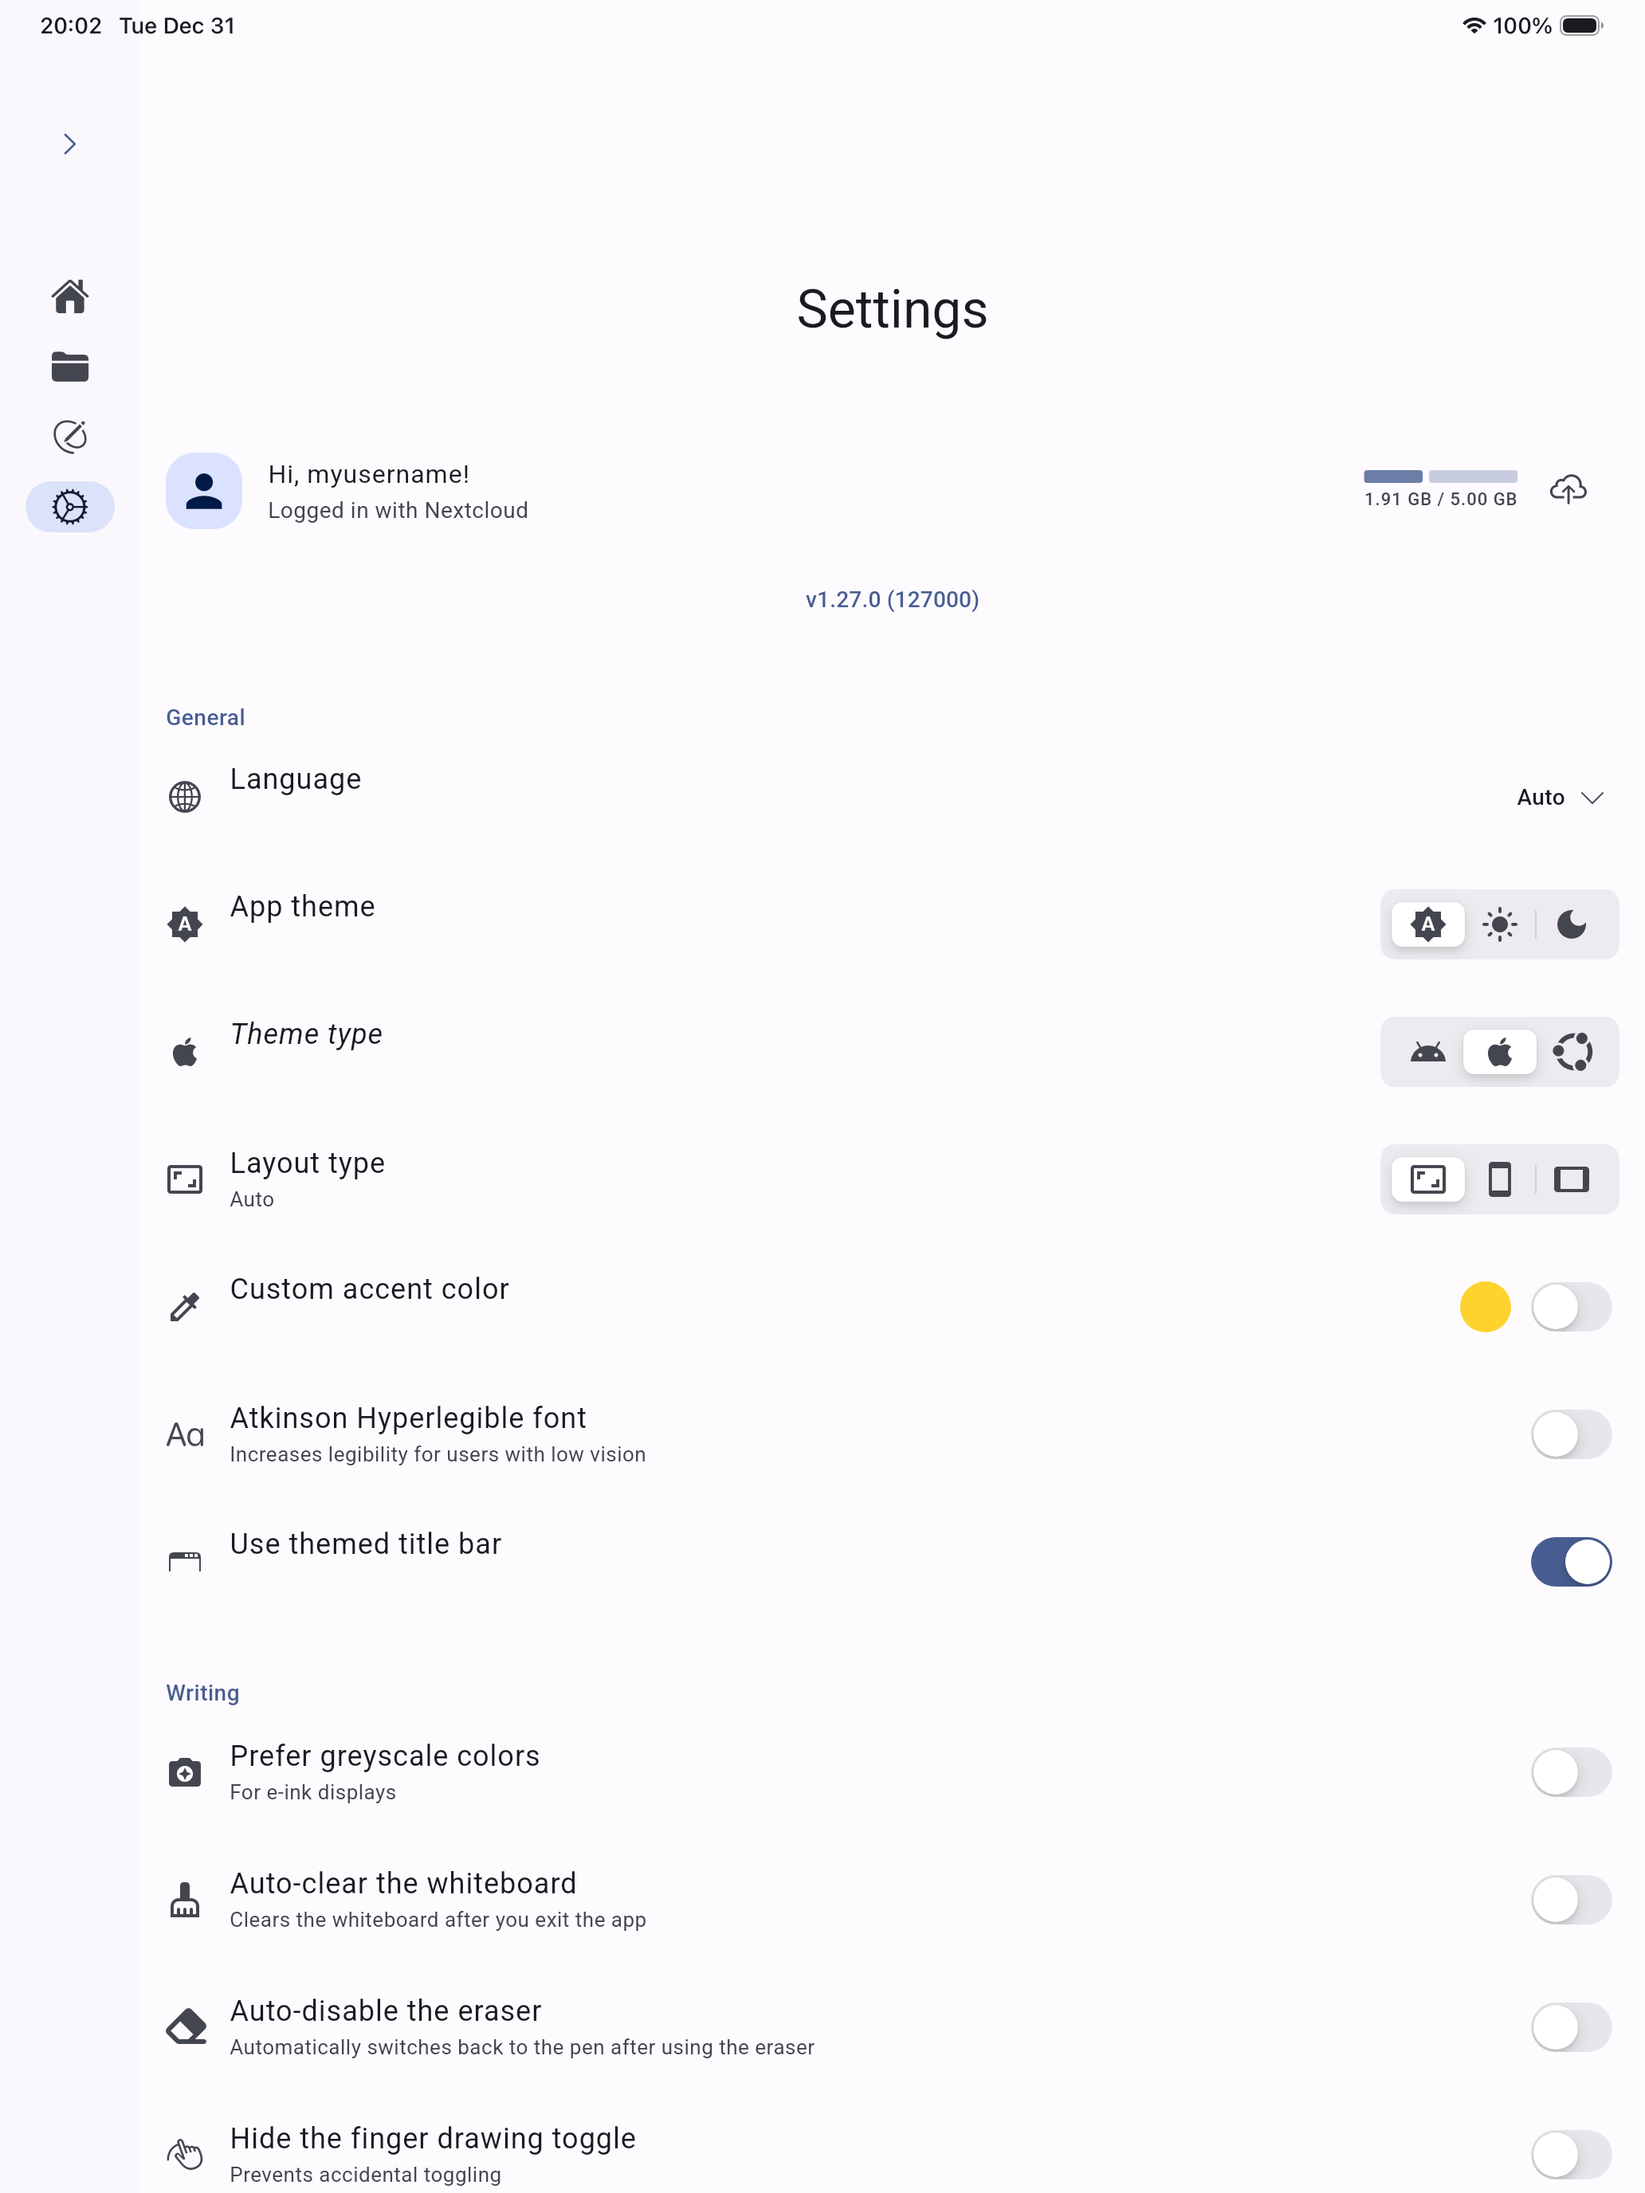
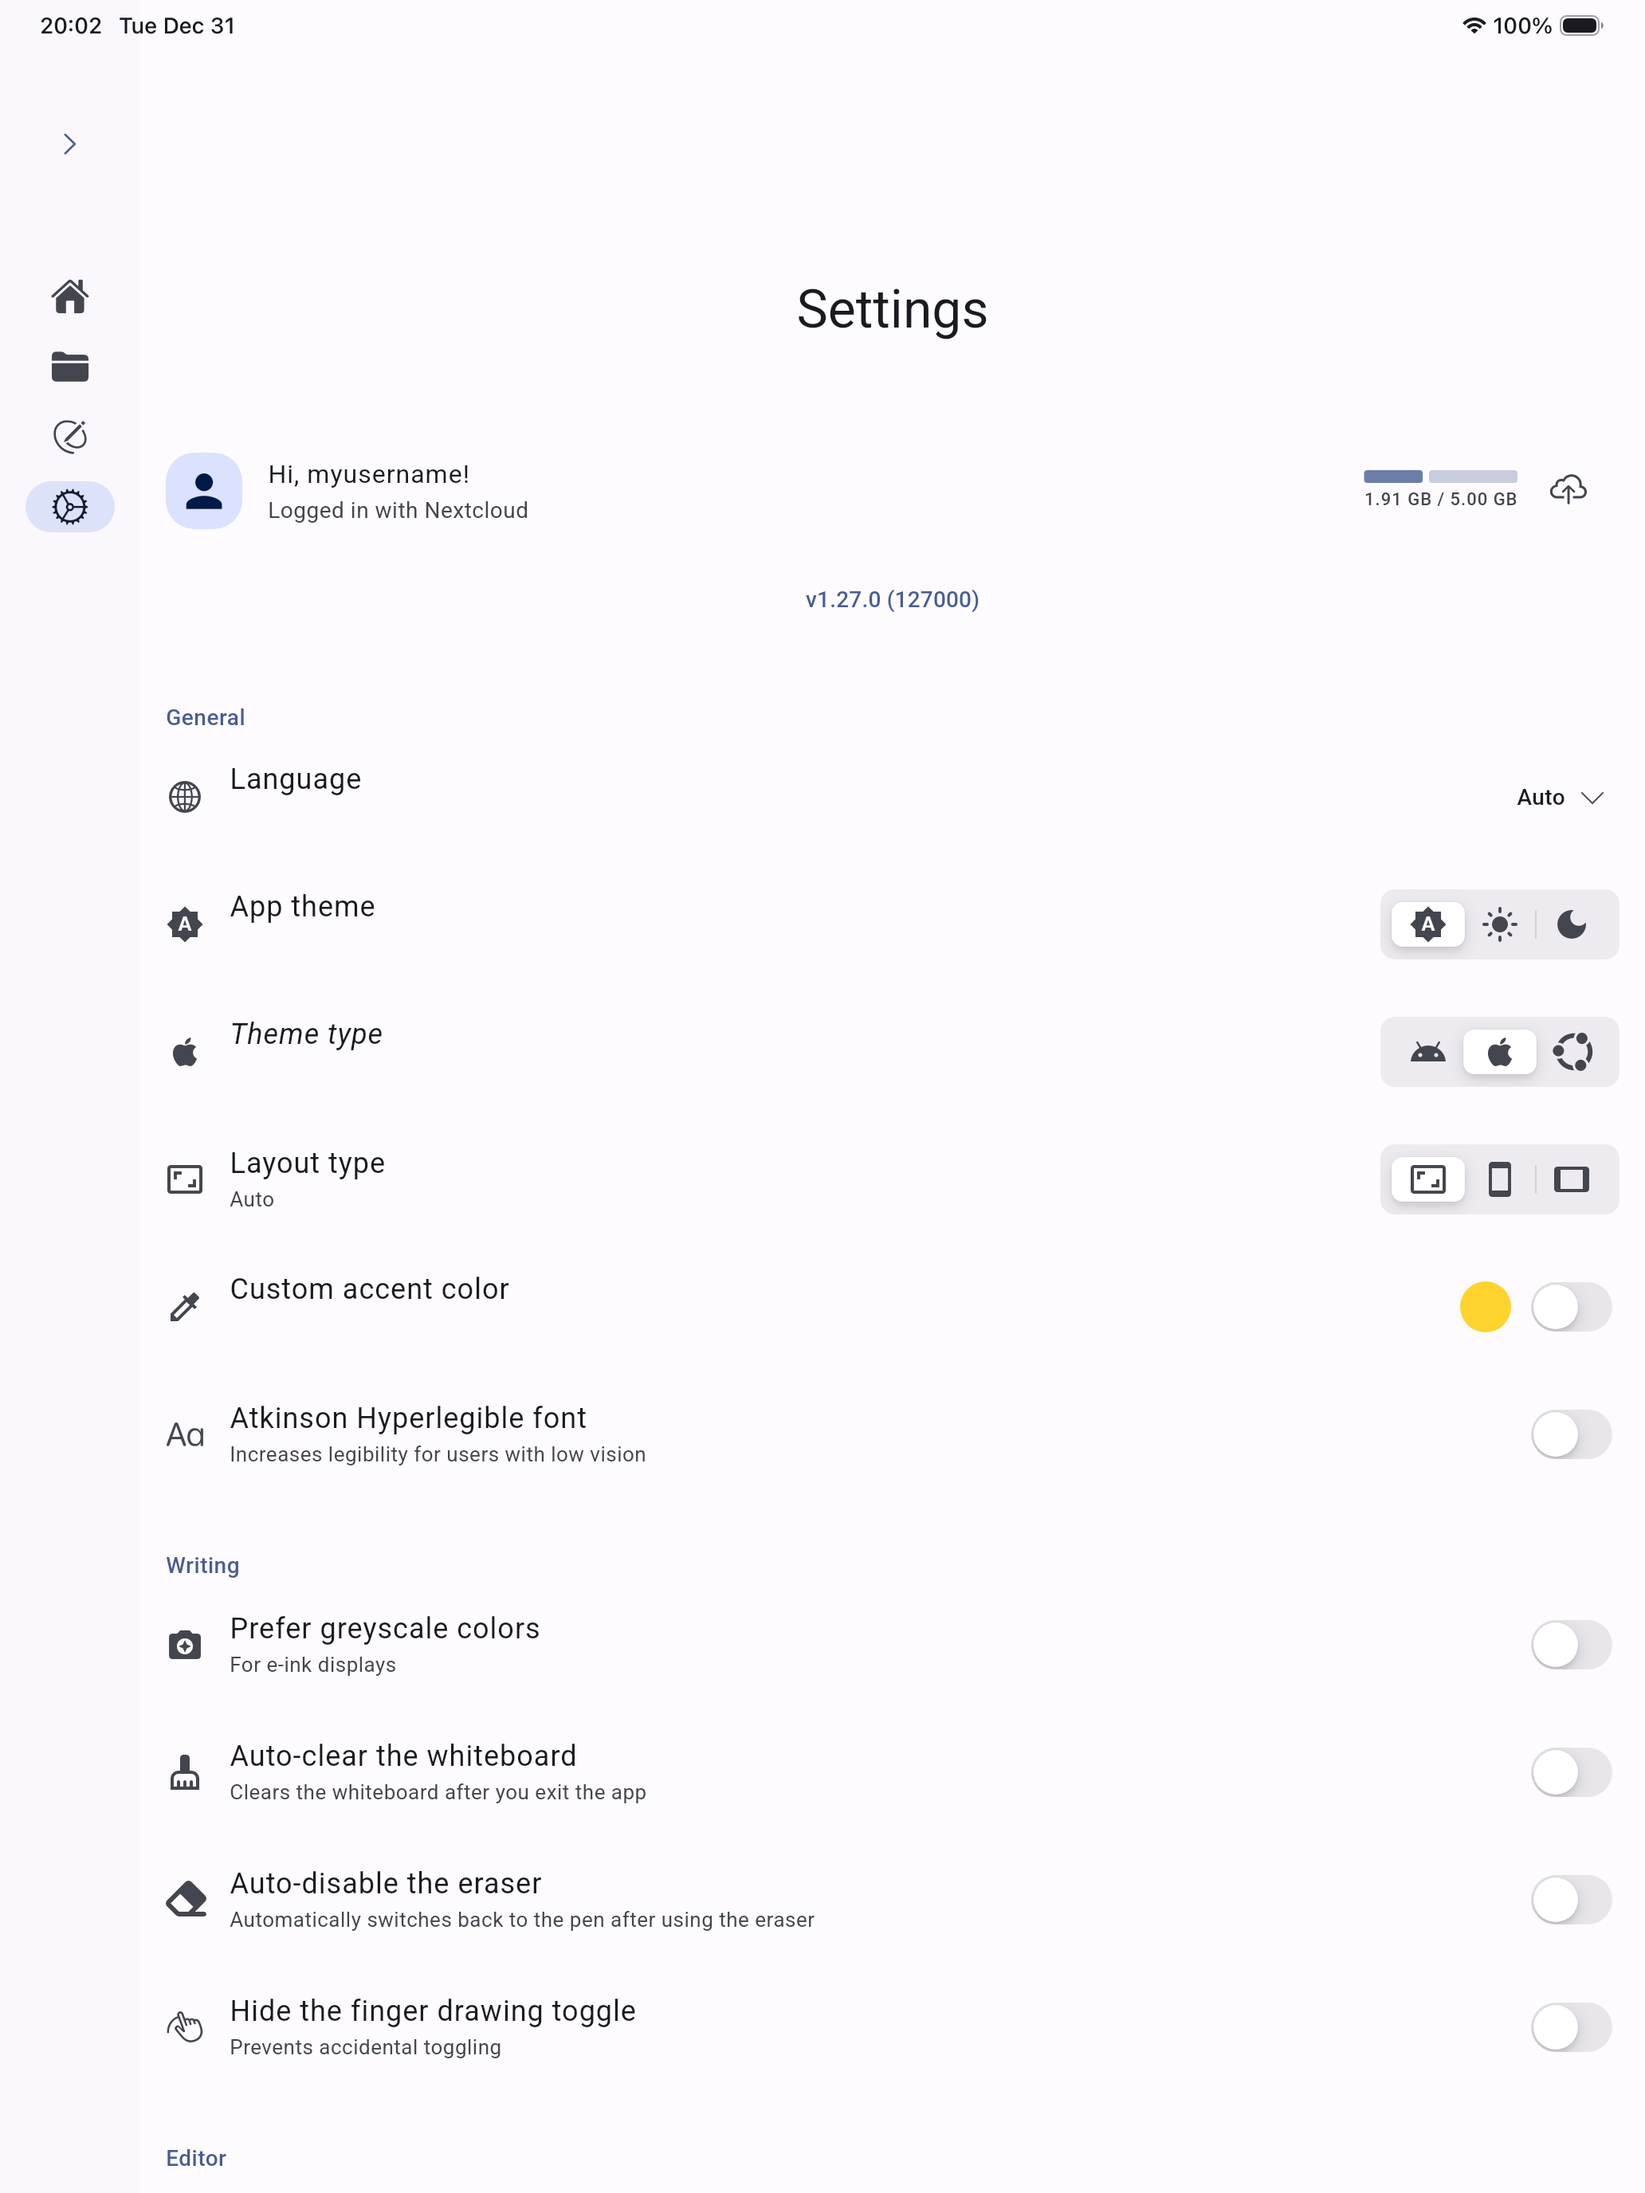
tweak: remove yaru title bar
It was causing issues with KDE 6 (Wayland), see #1581.
Additionally, you couldn't drag the corners to resize the window.

diff --git a/lib/components/theming/dynamic_material_app.dart b/lib/components/theming/dynamic_material_app.dart
@@ -44,14 +44,6 @@ class DynamicMaterialApp extends StatefulWidget {
     }
   }
 
-  /// Toggles the native titlebar so it doesn't conflict with Yaru's titlebar.
-  static void showOrHideNativeTitleBar() {
-    if (!Stows.canUseYaruTitleBar) return;
-    windowManager.setTitleBarStyle(
-      stows.useYaruTitleBar.value ? TitleBarStyle.hidden : TitleBarStyle.normal,
-    );
-  }
-
   static void addFullscreenListener(void Function() listener) {
     _isFullscreen.addListener(listener);
   }
@@ -69,7 +61,6 @@ class DynamicMaterialAppState extends State<DynamicMaterialApp>
     stows.platform.addListener(onChanged);
     stows.accentColor.addListener(onChanged);
     stows.hyperlegibleFont.addListener(onChanged);
-    stows.useYaruTitleBar.addListener(onChanged);
 
     windowManager.addListener(this);
     SystemChrome.setSystemUIChangeCallback(_onFullscreenChange);
@@ -130,7 +121,6 @@ class DynamicMaterialAppState extends State<DynamicMaterialApp>
               platform: platform,
               textTheme: SaberTheme.createTextTheme(Brightness.dark),
             ),
-            useYaruTitleBar: stows.useYaruTitleBar.value,
           );
         },
       );
@@ -152,7 +142,6 @@ class DynamicMaterialAppState extends State<DynamicMaterialApp>
           Brightness.dark,
           platform,
         ),
-        useYaruTitleBar: stows.useYaruTitleBar.value,
       );
     }
 
@@ -177,7 +166,6 @@ class DynamicMaterialAppState extends State<DynamicMaterialApp>
                   Brightness.dark,
                   platform,
                 ),
-          useYaruTitleBar: stows.useYaruTitleBar.value,
         );
       },
     );
@@ -189,7 +177,6 @@ class DynamicMaterialAppState extends State<DynamicMaterialApp>
     stows.platform.removeListener(onChanged);
     stows.accentColor.removeListener(onChanged);
     stows.hyperlegibleFont.removeListener(onChanged);
-    stows.useYaruTitleBar.removeListener(onChanged);
 
     windowManager.removeListener(this);
     SystemChrome.setSystemUIChangeCallback(null);
@@ -210,7 +197,6 @@ class ExplicitlyThemedApp extends StatelessWidget {
     required this.darkTheme,
     this.highContrastTheme,
     this.highContrastDarkTheme,
-    required this.useYaruTitleBar,
   });
 
   final String title;
@@ -218,7 +204,6 @@ class ExplicitlyThemedApp extends StatelessWidget {
   final ThemeMode themeMode;
   final ThemeData theme, darkTheme;
   final ThemeData? highContrastTheme, highContrastDarkTheme;
-  final bool useYaruTitleBar;
 
   static final _materialAppKey = GlobalKey<State<MaterialApp>>();
 
@@ -230,8 +215,6 @@ class ExplicitlyThemedApp extends StatelessWidget {
     final highContrastDarkTheme =
         this.highContrastDarkTheme ??
         darkTheme.copyWith(colorScheme: theme.colorScheme.withHighContrast());
-
-    DynamicMaterialApp.showOrHideNativeTitleBar();
 
     return MaterialApp.router(
       key: _materialAppKey,
@@ -251,22 +234,40 @@ class ExplicitlyThemedApp extends StatelessWidget {
       highContrastTheme: highContrastTheme,
       highContrastDarkTheme: highContrastDarkTheme,
       debugShowCheckedModeBanner: false,
-      builder: (Stows.canUseYaruTitleBar && useYaruTitleBar)
-          ? _TitledWindow.new
+      builder: (Platform.isWindows || Platform.isLinux)
+          ? (context, child) => _BorderedWindow(child: child)
           : null,
     );
   }
 }
 
-class _TitledWindow extends StatefulWidget {
-  const _TitledWindow(BuildContext? context, this.child);
+/// A widget that adds a border around the app window when not in fullscreen.
+class _BorderedWindow extends StatefulWidget {
+  const _BorderedWindow({required this.child});
   final Widget? child;
   @override
-  State<_TitledWindow> createState() => _TitledWindowState();
+  State<_BorderedWindow> createState() => _BorderedWindowState();
 }
 
-class _TitledWindowState extends State<_TitledWindow> {
-  static Color _lastBorderColor = Colors.transparent;
+class _BorderedWindowState extends State<_BorderedWindow> {
+  static var _lastBorderColor = Colors.transparent;
+  static final _childKey = GlobalKey();
+
+  @override
+  void initState() {
+    super.initState();
+    DynamicMaterialApp.addFullscreenListener(_onFullscreenChanged);
+  }
+
+  @override
+  void dispose() {
+    DynamicMaterialApp.removeFullscreenListener(_onFullscreenChanged);
+    super.dispose();
+  }
+
+  void _onFullscreenChanged() {
+    if (mounted) setState(() {});
+  }
 
   @override
   void didChangeDependencies() {
@@ -286,13 +287,19 @@ class _TitledWindowState extends State<_TitledWindow> {
 
   @override
   Widget build(BuildContext context) {
-    return Padding(
-      padding: const EdgeInsets.all(1),
-      child: ColoredBox(
-        color: _lastBorderColor,
-        child: Scaffold(appBar: const YaruWindowTitleBar(), body: widget.child),
-      ),
+    /// Use KeyedSubtree to preserve child state when adding/removing border
+    final keyedChild = KeyedSubtree(
+      key: _childKey,
+      child: widget.child ?? const SizedBox(),
     );
+
+    final showBorder = !DynamicMaterialApp.isFullscreen;
+    return showBorder
+        ? ColoredBox(
+            color: _lastBorderColor,
+            child: Padding(padding: const EdgeInsets.all(1), child: keyedChild),
+          )
+        : keyedChild;
   }
 }
 

diff --git a/lib/pages/home/settings.dart b/lib/pages/home/settings.dart
@@ -31,7 +31,6 @@ import 'package:saber/data/sentry/sentry_init.dart';
 import 'package:saber/data/tools/shape_pen.dart';
 import 'package:saber/i18n/strings.g.dart';
 import 'package:stow/stow.dart';
-import 'package:yaru/icons.dart';
 
 class SettingsPage extends StatefulWidget {
   const SettingsPage({super.key});
@@ -347,12 +346,6 @@ class _SettingsPageState extends State<SettingsPage> {
                   },
                   pref: stows.hyperlegibleFont,
                 ),
-                if (Platform.isLinux || Platform.isWindows || Platform.isMacOS)
-                  SettingsSwitch(
-                    title: t.settings.prefLabels.useYaruTitleBar,
-                    icon: YaruIcons.window_top_bar,
-                    pref: stows.useYaruTitleBar,
-                  ),
 
                 SettingsSubtitle(subtitle: t.settings.prefCategories.writing),
                 SettingsSwitch(

diff --git a/lib/main.dart b/lib/main.dart
@@ -86,10 +86,7 @@ Future<void> appRunner(List<String> args) async {
   await Future.wait([
     stows.customDataDir.waitUntilRead().then((_) => FileManager.init()),
     if (Platform.isWindows || Platform.isLinux || Platform.isMacOS)
-      Future.wait([
-        windowManager.ensureInitialized(),
-        stows.useYaruTitleBar.waitUntilRead(),
-      ]).then((_) => DynamicMaterialApp.showOrHideNativeTitleBar()),
+      windowManager.ensureInitialized(),
     workerManager.init(),
     stows.locale.waitUntilRead(),
     stows.url.waitUntilRead(),

diff --git a/test/utils/test_mock_channel_handlers.dart b/test/utils/test_mock_channel_handlers.dart
@@ -84,15 +84,3 @@ void setupMockAudioplayers() {
     },
   );
 }
-
-void setupMockWindowManager() {
-  const channel = MethodChannel('window_manager');
-  TestWidgetsFlutterBinding.ensureInitialized();
-  TestDefaultBinaryMessengerBinding.instance.defaultBinaryMessenger
-      .setMockMethodCallHandler(channel, (MethodCall methodCall) async {
-        if (methodCall.method == 'setTitleBarStyle') {
-          return true;
-        }
-        return null;
-      });
-}

diff --git a/lib/data/prefs.dart b/lib/data/prefs.dart
@@ -124,13 +124,6 @@ class Stows {
     false,
     volatile: !_isOnMainIsolate,
   );
-  final useYaruTitleBar = PlainStow(
-    'useYaruTitleBar',
-    canUseYaruTitleBar,
-    volatile: !_isOnMainIsolate,
-  );
-  @pragma('vm:platform-const')
-  static final canUseYaruTitleBar = Platform.isLinux || Platform.isWindows;
 
   final editorToolbarAlignment = PlainStow(
     'editorToolbarAlignment',

diff --git a/test/editor_undo_redo_test.dart b/test/editor_undo_redo_test.dart
@@ -23,7 +23,6 @@ void main() {
     setupMockPathProvider();
     setupMockPrinting();
     setupMockAudioplayers();
-    setupMockWindowManager();
     SharedPreferences.setMockInitialValues({});
 
     FlavorConfig.setup();
